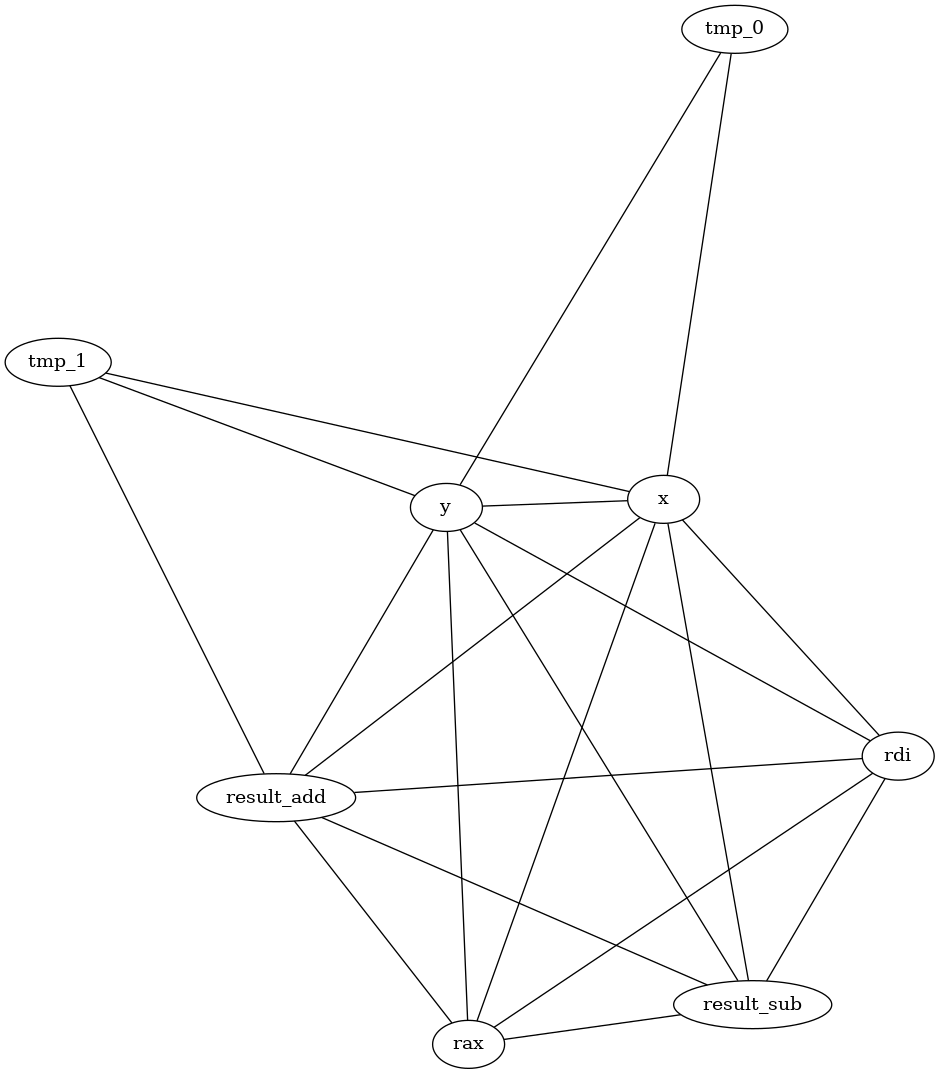
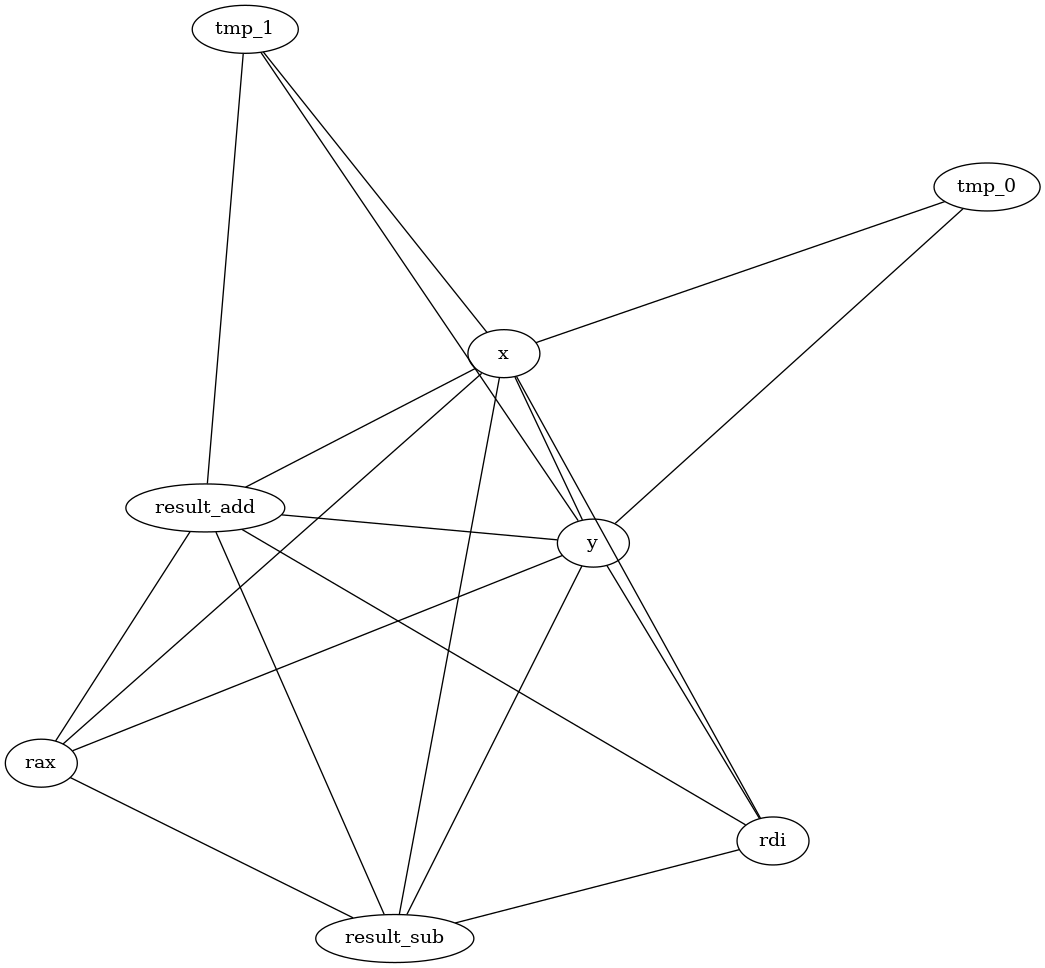
revert rdi changes

diff --git a/HA04_05/compiler_register_allocator.py b/HA04_05/compiler_register_allocator.py
@@ -35,7 +35,7 @@ class Compiler(compiler.Compiler):
             case Instr('subq', [a, b]): result = {a, b}
             case Instr('negq', [a]):    result = {a}
             case Instr('pushq', [a]):   result = {a}
-            case Callq(_, n):           result = {Reg('rdi')}
+            case Callq(_, n):           result = {Reg('rdi')} if n == 1 else {}
             case _:                     result = set()
         return set([item for item in result if not isinstance(item, Immediate)])
 
